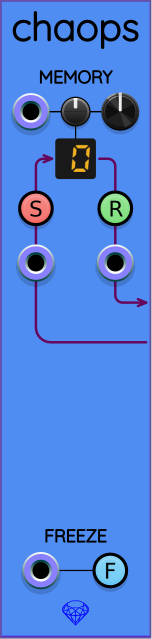
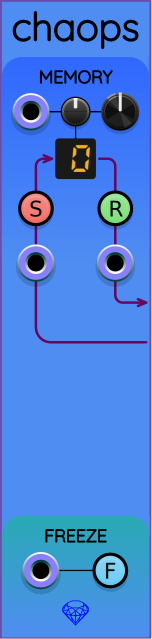
Chaops panel: added color gradients for MEMORY and FREEZE.

Changed region(s): [[0.0, 0.8028, 1.0, 0.9218], [0.0, 0.0892, 1.0, 0.2081], [0.0263, 0.9812, 0.9737, 1.0]]

diff --git a/util/make_sapphire_svg.py b/util/make_sapphire_svg.py
@@ -114,6 +114,11 @@ def GenerateChaosOperatorsPanel(cdict:Dict[str,ControlLayer]) -> int:
     yRecallLine = 61.0
     yStoreLine  = 69.0
     dyButtonText = 7.0
+    dyGradient = dyButtonText + 4.0
+    y1MemoryGradient = yMemorySelect - dyGradient
+    y2MemoryGradient = yMemoryButton + dyGradient
+    y1FreezeGradient = yFreezeButton - dyGradient
+    y2FreezeGradient = panel.mmHeight
 
     arcRadius = 1.5
     bigArcRadius = 3.0
@@ -166,8 +171,16 @@ def GenerateChaosOperatorsPanel(cdict:Dict[str,ControlLayer]) -> int:
         path += Line(x, y2)
         return Path(path, CONNECTOR_LINE_STYLE, id, 'none')
 
+    def AddGradient(y1:float, y2:float, color1:str, color2:str, id:str) -> None:
+        gradientId = id + '_gradient'
+        artworkId  = id + '_artwork'
+        defs.append(Gradient(y1, y2, color1, color2, gradientId))
+        pl.append(ControlGroupArt(name, artworkId, panel, y1, y2, gradientId))
+
     with Font(SAPPHIRE_FONT_FILENAME) as font:
         pl.append(BorderRect(PANEL_WIDTH, SAPPHIRE_PANEL_COLOR, SAPPHIRE_BORDER_COLOR))
+        AddGradient(y1MemoryGradient, y2MemoryGradient, SAPPHIRE_AZURE_COLOR, SAPPHIRE_PANEL_COLOR, 'memory')
+        AddGradient(y1FreezeGradient, y2FreezeGradient, SAPPHIRE_TEAL_COLOR,  SAPPHIRE_PANEL_COLOR, 'freeze')
         pl.append(CenteredGemstone(panel))
         pl.append(ModelNamePath(panel, font, name))
         pl.append(StoreLineArt())
